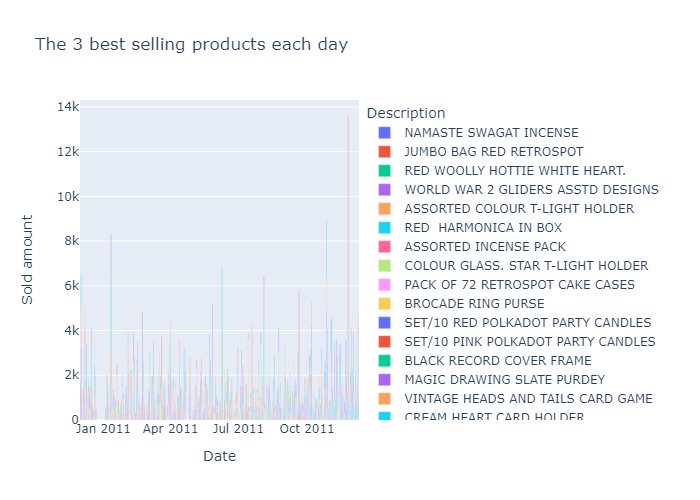
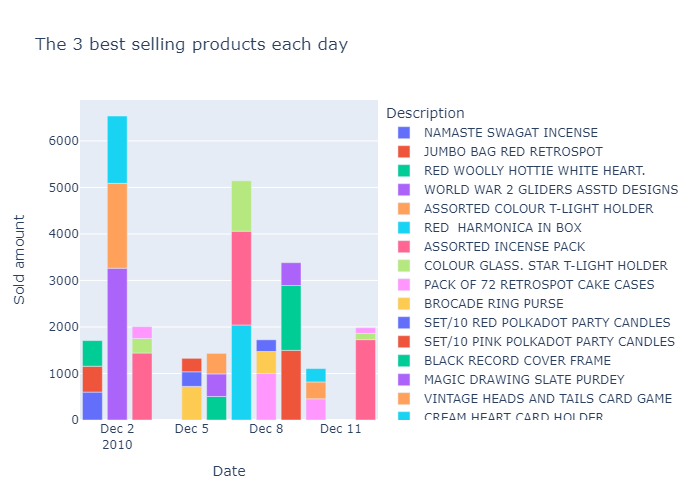
Readme

diff --git a/utils/exploratory_data_analisys.py b/utils/exploratory_data_analisys.py
@@ -119,7 +119,7 @@ class EDA():
         plot.update_traces(marker_color='rgb(158,202,225)', marker_line_color='rgb(8,48,107)',
                   marker_line_width=1.5, opacity=0.6)
         plot.update_xaxes(categoryorder='array',categoryarray=volume.index.values)
-        plot.update_traces(textinfo='value')
+        
         plot.show()
         plot.write_image('figures/1c_volumes.png')
         '''
@@ -140,7 +140,7 @@ class EDA():
         plot.update_traces(marker_color='rgb(158,202,225)', marker_line_color='rgb(8,48,107)',
                   marker_line_width=1.5, opacity=0.6)
         plot.update_xaxes(categoryorder='array',categoryarray=invoicing.index.values)
-        plot.update_traces(textinfo='value')
+        
         plot.show()
         plot.write_image('figures/1c_invoice.png')
 
@@ -151,13 +151,14 @@ class EDA():
         products = products.groupby(['InvoiceDate','Description']).sum()
         top_3_products_per_day = products.sort_index(ascending=[1,0]).groupby(level=0, as_index=False).apply(lambda x: x.sort_values(by='Quantity',ascending=False).head(3) if len(x) >= 3 else x.head(0)).reset_index(level=0, drop=True)
         top_3_products_per_day = top_3_products_per_day.reset_index()
+        
         #Plot
         plot = px.bar(top_3_products_per_day, x="InvoiceDate", y="Quantity", color="Description",
                         labels={'Quantity':'Sold amount',
                             'InvoiceDate':'Date'},
                     title=f'The 3 best selling products each day'
         )
-        plot.update_traces(textinfo='value')
+        
         plot.show() 
         plot.write_image('figures/1c_products.png')
 
@@ -177,7 +178,7 @@ class EDA():
         )
         plot.update_traces(marker_color='rgb(158,202,225)', marker_line_color='rgb(8,48,107)',
                   marker_line_width=1.5, opacity=0.6)
-        plot.update_traces(textinfo='value')
+        
         plot.show()
         plot.write_image('figures/1d_general.png')
 
@@ -194,6 +195,6 @@ class EDA():
                             'Country':'Country'},
                     title=f'The most sold product in each country'
         )
-        plot.update_traces(textinfo='value')
+        
         plot.show() 
         plot.write_image('figures/1d_by_country.png')

diff --git a/README.md b/README.md
@@ -46,3 +46,22 @@ Em termos de faturamento, o pensamento é similar ao anterior mas agora ao invé
 ![Screenshot](figures/1c_invoice.png)
 <br>
 É notório que o período após Set/2011 apresenta uma consistência de faturamento em maior nível que os períodos anteriores, que pode ser possivelmente explicado pelas promoções de fim de ano, como dito anteriormente.
+
+#### <strong>Produtos Vendidos</strong>
+Nesta análise, busquei quais foram os três produtos mais vendidos em cada dia. Para tal, calculei o total vendido por cada produto em um dia e peguei apenas os três mais vendidos. Abaixo mostrarei apenas alguns dias visto a grande quantidade de dias e a dificuldade de visualizar o gráfico utilizado para essa análise em larga escala:
+<br>
+![Screenshot](figures/1c_products.png)
+<br>
+Para uma eventual análise mais detalhada, recomendo a utilização do Jupyter no VSCode para analisar os gráficos plotly interativos. 
+
+### <strong>d)</strong>
+Na análise dos países, realizei duas abordagens: a primeira delas mostra um comparativo geral dos países em termos do número total de unidades compradas:
+<br>
+![Screenshot](figures/1d_general.png)
+<br>
+Podemos observar claramente que o Reino Unido detém, tranquilamente, o maior número de clientes da referida loja, seguido da Holanda, Irlanda e Alemanha. Já o país com o menor número de transações é a Arábia Saudita.
+
+A segunda análise explora qual o produto mais consumido por cada país:
+<br>
+![Screenshot](figures/1d_by_country.png)
+<br>
